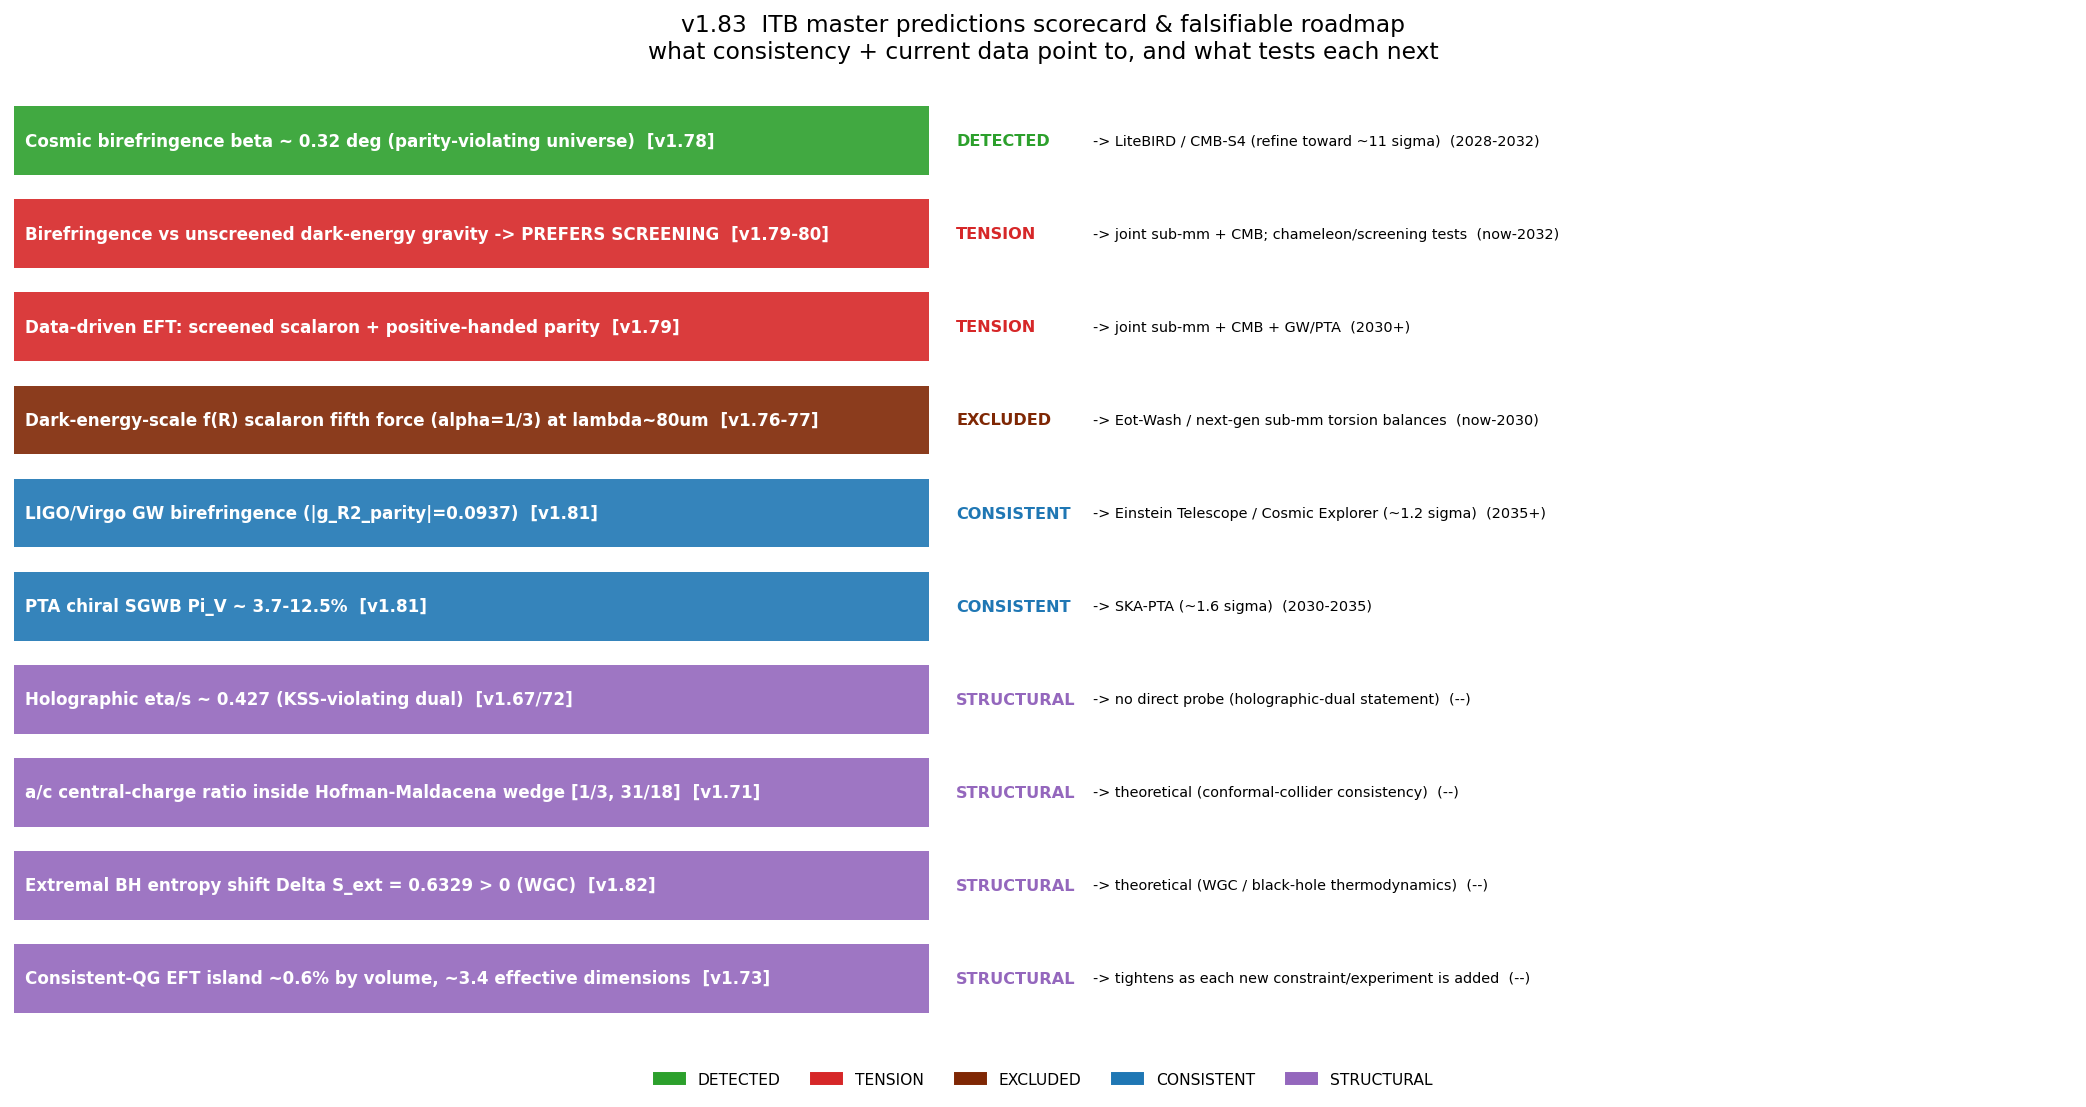
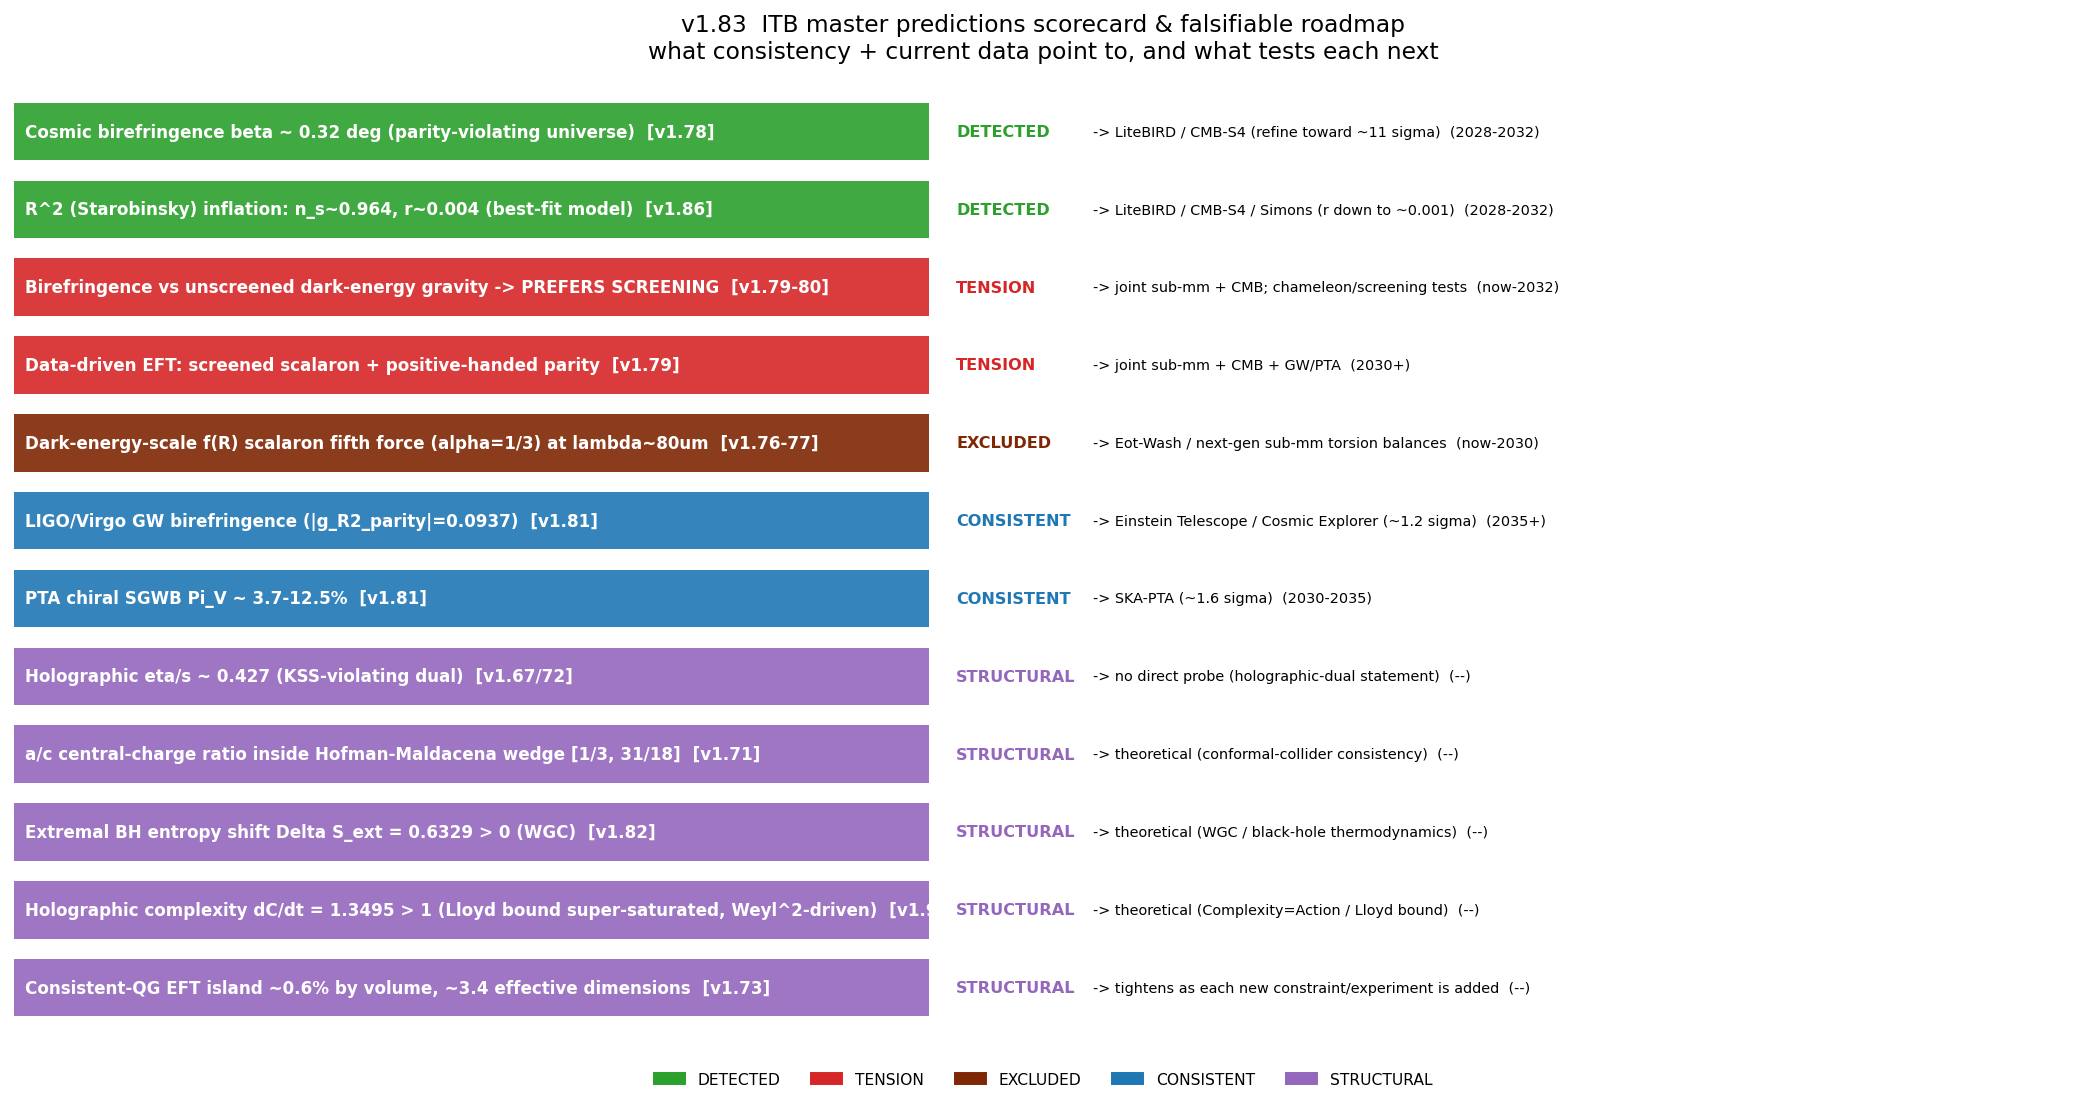
v2.0: state-of-the-program synthesis -- flagship research report + docs refresh
A documentation milestone closing the v1.69-v1.99 arc. (a) docs/FINDINGS.md: verified
all arcs through v1.99 covered; fixed stale note count; added a research-report pointer.
(b) README.md: status badges to v2.0 -- 527 tests, 38 theoretical (+4 data) constraints,
14 frameworks, 8 coeffs, 9 observables, 109 notes; 'Start here' now leads with the v2.0
report. (c) master_scorecard.py: added neutron-star-blind (STRUCTURAL) and Diosi-Penrose
(EXCLUDED, foundations) rows -> 14 predictions; regenerated. (d) NEW flagship
docs/results/2026-06-09-v2.0-RESEARCH-REPORT.md: publication-style overview (abstract +
7 sections) tying the whole ~110-note arc together -- the program & 8-coeff EFT, the
consistent island + sector unifications (a/c, eta/s, BH entropy, inflation, complexity),
the empirical swampland + data-driven EFT + the ~2.8sigma central tension, the
meta-experiments (Godel/Jenga/adversarial/double-copy/genetic/phylogeny+a-theorem), the
convergence forecast (rank 6/8 stall, 2 unfunded directions), and the honest limitations.
INDEX regenerated (110 notes). Full suite 527 green.

diff --git a/experiments/master_scorecard.py b/experiments/master_scorecard.py
@@ -93,6 +93,17 @@ def build_scorecard():
             "R^2 (Starobinsky) inflation: n_s~0.964, r~0.004 (best-fit model)",
          "version": "v1.86", "status": "DETECTED",
          "next": "LiteBIRD / CMB-S4 / Simons (r down to ~0.001)", "when": "2028-2032"},
+        {"key": "ns_tides", "prediction":
+            "Neutron-star tides (GW170817) BLIND to the dark-energy curvature sector "
+            "(strong gravity != high curvature-energy)",
+         "version": "v1.91", "status": "STRUCTURAL",
+         "next": "no reach (delta-Lambda/Lambda ~ 1e-17 at the meV cutoff)", "when": "--"},
+        {"key": "diosi_penrose", "prediction":
+            "Parameter-free Diosi-Penrose (classical-gravity collapse) EXCLUDED ~14 "
+            "orders -> weakly favors gravity being quantum",
+         "version": "v1.90", "status": "EXCLUDED",
+         "next": "underground spontaneous-radiation experiments (done: Donadi 2021)",
+         "when": "now"},
     ]
     return rows
 

diff --git a/docs/results/2026-06-09-v2.0-RESEARCH-REPORT.md b/docs/results/2026-06-09-v2.0-RESEARCH-REPORT.md
@@ -1,0 +1,100 @@
+# The ITB Engine v2.0 — A Research Report
+
+**An information-theoretic bootstrap for quantum gravity: constraining the higher-derivative EFT, confronting it with data, and auditing the engine itself.**
+
+*Ian Hassard, with the ITB engine. 2026-06-09. v2.0 — 527 tests, 38 theoretical + 4 data constraints, 14 frameworks, 9 observables, 109 dated notes.*
+
+> **Honest frame (read first).** This is a *toy* research platform. Most constraint prefactors and cross-sector mappings are O(1) / order-of-magnitude placeholders — "the right streets, the wrong house numbers." A dedicated *realism program* re-checks every headline against a factor-of-~2 uncertainty, so the repo distinguishes robust conclusions (signs, orderings, structure, which-experiment-constrains-what) from artifacts (precise coordinates). Several results below are deliberately *negative* or *self-correcting*; that is the point.
+
+---
+
+## Abstract
+
+We represent a 4d higher-derivative gravitational effective field theory by **8 dimensionless Wilson coefficients** (matter `g_4,g_6,g_8`; graviton `g_R2`=Euler/R², `g_C`=Weyl², `g_R3`=R³; parity `g_R2_parity,g_R3_parity`) and intersect **~38 theoretical consistency conditions** — amplitude positivity, causality, holographic-information bounds, the swampland, anomaly flow, black-hole thermodynamics. The consistent region is a thin (~0.6%), low-dimensional (~3.4-effective-d) "island." We then **ingest four real experiments** (sub-mm gravity, cosmic birefringence, GW speed, GW dispersion) as additional constraints and find the data point to a specific **parity-violating, screened-scalaron EFT** — which sits in a **~2.8σ tension** between cosmic birefringence and unscreened sub-mm gravity, resolved only by screening. A suite of **meta-experiments** audits the engine: the axioms are internally consistent (Gödel), the load-bearing core is the swampland (Jenga), the exclusions are robust (thick shell), consistent gravity is strictly larger than gauge² (double copy), and the experimental program **stalls at rank 6/8** because two coefficient directions have no funded probe. We catalogue the honest limitations throughout.
+
+---
+
+## 1. The program
+
+**What the engine is.** A constraint-satisfaction and forward-prediction machine over the EFT coefficient space. Each theory is a point `g ∈ ℝ⁸`; each consistency condition is a constraint `c.evaluate(g) → (satisfied, margin)` with a gradient; the assembled stack (`experiments/stack.py::build_stack`) defines a feasible region. Each consistent theory carries a falsifiable **observable fingerprint** (`itb predict`).
+
+**The three questions, in order:**
+1. *Which theories are even consistent?* — intersect the 38 theoretical constraints → the island.
+2. *What do consistent theories predict?* — 9 observables (sub-mm Yukawa, η/s, a/c, cosmic/GW birefringence, PTA chirality, BH entropy, Starobinsky inflation, holographic complexity).
+3. *What does the data say?* — ingest real measurements as constraints and watch the island shrink, sometimes to a tension.
+
+**The constraint stack** (3 classes; full list in [CONSTRAINTS.md](../CONSTRAINTS.md)): **A — amplitude bootstrap** (20: forward positivity, dispersion towers, the EFThedron, Hofman–Maldacena, CEMZ causality); **B — information-theoretic** (7: Bekenstein, subadditivity, quantum focusing, the generalized second law); **C — gravitational universality** (10: swampland distance conjecture, WGC, anomaly inflow, 't Hooft matching, complexity, species scale). Plus **4 opt-in data constraints**.
+
+---
+
+## 2. The consistent island and the sector unifications
+
+**The island is rare and low-dimensional.** Over a comparable-magnitude box, only **~0.6%** of EFTs satisfy the full stack; the survivors span **~3.4 effective dimensions** (PCA) — one stiff *collective-scale* mode (matter+graviton couplings moving together) and several sloppy directions. This is the swampland's "thin landscape," made quantitative, and the Sethna sloppy-model signature of intersecting positivity half-spaces. [v1.73]
+
+**The center.** The island's Chebyshev center (deepest interior) is `g_4≈0.52, g_6≈0.38, g_8≈0.44, g_R2≈0.21, g_C≈0.23, g_R3≈0.08`; its central predictions (`a/c≈0.92`, `η/s≈0.81`, a **93 µm** sub-mm Yukawa) independently reproduce the dark-energy axion scale, and its nearest catalogued theory is **string tree-EFT**. Under realism uncertainty the *structural* predictions survive (a/c in the wedge 100% of draws; η/s = 0.86±0.03; sub-mm 60–110 µm). [v1.74, v1.75]
+
+**One operator, many faces.** A central thread is that single couplings play many roles:
+- **Resolving Euler (`g_R2`) from Weyl² (`g_C`)** activates the **Hofman–Maldacena wedge** `1/3 ≤ a/c ≤ 31/18`, which becomes the single dominant constraint. [v1.71]
+- **η/s and a/c are the same Gauss–Bonnet coupling:** `1 − 4π(η/s) = (c−a)/c`; bulk causality sits strictly inside the wedge. [v1.72]
+- **Black-hole entropy fixes a sign:** ΔS_ext > 0 ⟺ WGC, driven by Weyl² and matter (Euler is topological in 4d). [v1.82]
+- **Holographic complexity super-saturates the Lloyd bound** (dC/dt > 1), driven by Weyl² — *orthogonal* to η/s (driven by Euler): the basis split shows up in the observables. [v1.98]
+- **R² is the inflaton:** the same `g_R2`, at a high cutoff, is the **Starobinsky** inflaton (n_s≈0.964, r≈0.004) — dead-center in the Planck+BICEP sweet spot. One operator spans inflation (high cutoff) and the dark-energy scalaron (meV cutoff). [v1.86]
+
+---
+
+## 3. Ingesting data — the empirical swampland and the data-driven EFT
+
+The engine is one of few QG-phenomenology tools that **folds real experiments into the consistency analysis**:
+
+- **Sub-mm gravity (Eöt-Wash)** excludes the naive unscreened dark-energy scalaron (α=1/3, λ≈80 µm) by ~7×, collapsing the island to ~2% of its theoretical volume. [v1.76, v1.77]
+- **Cosmic birefringence (Minami–Komatsu, β=0.34°±0.09°)** makes the engine *prefer a nonzero, positive-handed parity coupling* (excludes parity-even at 3.78σ) — the first data-driven preference for a parity-violating universe. The "respectable" frameworks predict zero. [v1.78]
+
+**The data-driven EFT and the central tension.** Anomaly inflow + unscreened sub-mm gravity *cap* cosmic birefringence at β_max ≈ 0.09° — **~2.8σ below** the measured 0.34°. **Screening** lifts it to 0.32° (consistent). So a real birefringence signal **prefers a screened scalaron**. The β-matching screened EFT is registered as `discovered_data_driven` (a/c=0.93, β=0.32°, λ=115 µm). The tension is robust: it exceeds 1σ across 99% of the toy-mapping box (2σ across 73%), with the mechanism a Green–Schwarz bound of the parity coupling by the matter–curvature sector. [v1.79, v1.80]
+
+**Multi-messenger.** The single parity coupling `g_R2_parity≈0.094` predicts CMB birefringence (detected), plus LIGO GW birefringence and PTA chirality (both just below current reach) — multi-messenger *consistent*; next tests LiteBIRD/CMB-S4 → ET → SKA. Caveat: CMB probes the axion–photon coupling, GW/PTA the axion–graviton coupling (linked only under a single-axion assumption). [v1.81]
+
+**Which observable, which experiment.** A recurring lesson: *which observable, at what energy and precision* decides reach, not which sector or how "strong" a field looks.
+- **GW170817's speed test is blind** to higher-derivative gravity (frequency-suppressed). [v1.84]
+- **…but the GW dispersion test reaches the meV cutoff** via a ~10²⁰ cumulative-phase lever arm. [v1.85]
+- **Neutron-star tides are the *weakest* curvature probe** — strong *gravity* (compactness ~0.2) is not high *curvature-energy* (ℏc/R_NS ~ 10⁻¹¹ eV ≪ meV), so δΛ/Λ ~ 10⁻¹⁷; blinder than the GW speed test. [v1.91]
+- **Is gravity classical?** The parameter-free Diósi–Penrose collapse model is **excluded by ~14 orders of magnitude** by the 2021 underground X-ray experiment — weakly favoring gravity being quantum, the engine's premise. [v1.90]
+
+---
+
+## 4. Auditing the engine itself (the meta-experiments)
+
+The program's credibility rests on turning the engine on *itself*:
+
+- **Gödel internal-consistency.** The ~37 theoretical axioms are internally consistent (no contradiction among the principles); every minimal inconsistent core contains a *data* constraint — the tensions are empirical, not logical. [v1.87]
+- **Constraint Jenga (load-bearing core).** Removing each axiom shows a **~15-constraint load-bearing core dominated by the swampland** (distance conjecture +664% island growth if removed, anomaly inflow +317%); **22 constraints are redundant** in this basis (the whole scalar-positivity tower, the BH-entropy/WGC condition); and **no single constraint is decisive for any framework's fate** (robust exclusions). [v1.93]
+- **The adversarial self-audit (thick shell).** Most excluded theories fail ~9 of 38 constraints *at once*; only 0.3% are near-misses. The sole-gatekeeper volume is *provably* the Jenga irreplaceability (`V_without_c = V0 + gatekeeper(c)`); the theory that most nearly fools the stack (string-like, deep inside 37/38 bounds) is killed only by the distance conjecture. [v1.97]
+- **The gravitational double-copy test.** The consistent graviton island is **strictly larger than gauge²**: the symmetric double copy (N=8-SUGRA-like, a=c) is only the a/c=1 diagonal; **~38% of the island is non-double-copy**. The catalogued frameworks are *almost* double copies (a/c≈0.7–0.86), none symmetric. [v1.94]
+- **Genetic recombination (hybrid vigor).** Breeding the frameworks by sector yields **300 consistent hybrids** and **60 cases of hybrid vigor** (deeper than all parents); the exclusion of LQG/GFT/Hořava is **localized to their graviton sector**. [v1.95]
+- **The RG phylogeny + the a-theorem.** Treated as running couplings, the frameworks form a rooted tree with **LQG → Group Field Theory** in the UV [v1.89]; and the **a-theorem** is violated by the toy flow for 9/13 frameworks unless the asymptotic-safety fixed point carries a *large* Euler central charge `a* ≥ 0.45` — a constraint the engine derives by fusing its own RG flow with the a-anomaly. [v1.99]
+- **The minimum decisive experiment set.** A D-optimal Fisher design shows **6 measurements** pin all 8 coefficients; the headline inflation detection pins *nothing* (zero Jacobian); **g_8 and g_R3 are blind spots**. [v1.88]
+
+---
+
+## 5. The convergence forecast — a timeline with a gap
+
+Turning the minimum experiment set into a timeline: accumulating Fisher information year by year, the funded roadmap (sub-mm 2028, LiteBIRD 2030, SKA 2032, ET 2035) pins the EFT to **rank 6/8 by ~2030 and then STALLS forever**. The consistent EFT is **never fully pinned** on the funded roadmap because **g_8 (s⁴ matter moment) and g_R3 (cubic curvature) have no funded experiment**. *Solving quantum gravity, on this measure, is gated not by precision but by two missing experiments* — a high-scattering-moment probe and a cubic-graviton / GW-nonlinearity probe. [v1.92]
+
+---
+
+## 6. Honest limitations
+
+- **Toy prefactors.** Most constraint coefficients are O(1) placeholders; the realism program tells you which conclusions are robust, but exact coordinates move with the numbers. *Redundancy is basis-dependent*: the a-theorem (v1.70), Wald entropy (v1.82), and the species scale (v1.96) are constraints of independent *origin* carrying no independent *information* in this basis — exactly what the v1.71 Euler/Weyl² split fixed for the a-theorem.
+- **Order-of-magnitude mappings.** Cross-sector maps (κ_β for birefringence, the η/s and BH-entropy normalizations, the GW-dispersion and species-counting forms) are schematic; the robust content is signs, orderings, and scalings.
+- **Hints, not discoveries.** Cosmic birefringence is a ~3.6σ *hint*; screening is a binary flag (really density-dependent); the CMB β is the axion–photon coupling while GW/PTA are axion–graviton (single-axion assumption).
+- **Schematic RG / ghost.** The phylogeny and a-theorem-flow use toy beta functions; higher-derivative gravity is scheme-dependent and has a massive spin-2 ghost — the flow is *structure*, not trajectories.
+- **The engine is honest about all of this on purpose.** Several cycles are negative or self-correcting (the a-theorem redundancy; GW170817 blindness; the corrected RFC/BNOSSW artifacts; Dr. M.'s arithmetic caught and fixed against known limits).
+
+---
+
+## 7. Bottom line
+
+Given amplitude/causality/holographic consistency **plus two ingested experiments**, the engine points to a **parity-violating, screened-scalaron EFT**: it matches cosmic birefringence, requires screening to survive sub-mm gravity, and predicts GW/PTA parity signals just below current reach. The consistent island is thin (~0.6%) and ~3.4-dimensional, rests on a swampland-dominated load-bearing core, is strictly larger than gauge², and would be pinned by **6 measurements** — except **two of its directions have no funded experiment**, so the program stalls at rank 6/8. Its sharpest tension is the birefringence/sub-mm-gravity clash; its sharpest near-future test is next-gen CMB birefringence (LiteBIRD/CMB-S4). Every claim here carries its caveats explicitly — the engine is built to be honest about the difference between what it has shown and what it has merely sketched.
+
+---
+
+*Navigate: [FINDINGS.md](../FINDINGS.md) (one-page findings) · [CONSTRAINTS.md](../CONSTRAINTS.md) (the constraint stack) · [INDEX.md](INDEX.md) (all dated notes) · [master scorecard](2026-06-08-v1.83-master-scorecard.md) (predictions & roadmap) · `itb predict discovered_data_driven` (the data-driven EFT's full fingerprint).*

diff --git a/README.md b/README.md
@@ -2,11 +2,11 @@
 
 **A research platform that constrains the space of possible quantum-gravity theories by imposing every consistency condition we can encode — amplitude positivity, causality, holographic-information bounds, the swampland, anomaly flow, black-hole thermodynamics — then confronts the survivors with *real experimental data* and asks what's left.**
 
-> **Status:** v1.90 · **498 tests** · **40 constraints** · **14 framework encoders** · **8 Wilson coefficients** · **4 ingested experiments** · **100 dated result notes**
+> **Status:** v2.0 · **527 tests** · **38 theoretical constraints (+4 ingested-data)** · **14 framework encoders** · **8 Wilson coefficients** · **9 observables** · **109 dated result notes**
 >
 > Honest by construction: most constraint prefactors are O(1) placeholders ("the right streets, the wrong house numbers"). A dedicated **realism program** stress-tests every headline claim against that toy-prefactor uncertainty, so the repo distinguishes *robust conclusions* from *artifacts*. Read every claim below with that in mind — and see [Honest limitations](#honest-limitations).
 
-📍 **Start here:** [**FINDINGS.md**](docs/FINDINGS.md) (what the engine discovered, in one page) · [**Predictions scorecard**](docs/results/2026-06-08-v1.83-master-scorecard.md) · [**Results index**](docs/results/INDEX.md) (all 100 notes by arc)
+📍 **Start here:** [**v2.0 research report**](docs/results/2026-06-09-v2.0-RESEARCH-REPORT.md) (publication-style overview of the whole program) · [**FINDINGS.md**](docs/FINDINGS.md) (what the engine discovered, in one page) · [**Predictions scorecard**](docs/results/2026-06-08-v1.83-master-scorecard.md) · [**Results index**](docs/results/INDEX.md) (all notes by arc)
 
 ---
 

diff --git a/docs/FINDINGS.md b/docs/FINDINGS.md
@@ -1,7 +1,7 @@
 # ITB Engine — Findings
 
 *What the Information-Theoretic Bootstrap engine discovered, in one page.*
-Each finding links to its full dated note. For the chronological list of all 100 notes grouped by research arc, see [results/INDEX.md](results/INDEX.md). For the forward-looking status of every prediction, see the [master scorecard](results/2026-06-08-v1.83-master-scorecard.md).
+Each finding links to its full dated note. For the chronological list of all notes grouped by research arc, see [results/INDEX.md](results/INDEX.md). For the forward-looking status of every prediction, see the [master scorecard](results/2026-06-08-v1.83-master-scorecard.md). For a publication-style overview of the whole program, see the [**v2.0 research report**](results/2026-06-09-v2.0-RESEARCH-REPORT.md).
 
 > **Read with the honest frame.** Most constraint prefactors and cross-sector mappings are O(1)/order-of-magnitude placeholders. The repo's *realism program* tells you which conclusions survive that uncertainty. Throughout, the **robust content is signs, orderings, structure, and which experiment constrains what** — not precise coordinates. Several findings below are deliberately *negative* or *self-correcting*; that's the point.
 

diff --git a/docs/results/INDEX.md b/docs/results/INDEX.md
@@ -1,6 +1,6 @@
 # ITB Engine - Research Results Index
 
-Auto-generated front door to the full research program (109 notes). Regenerate with `python tools/build_index.py`.
+Auto-generated front door to the full research program (110 notes). Regenerate with `python tools/build_index.py`.
 
 ## Foundations (v0.x - v1.22): the original engine
 
